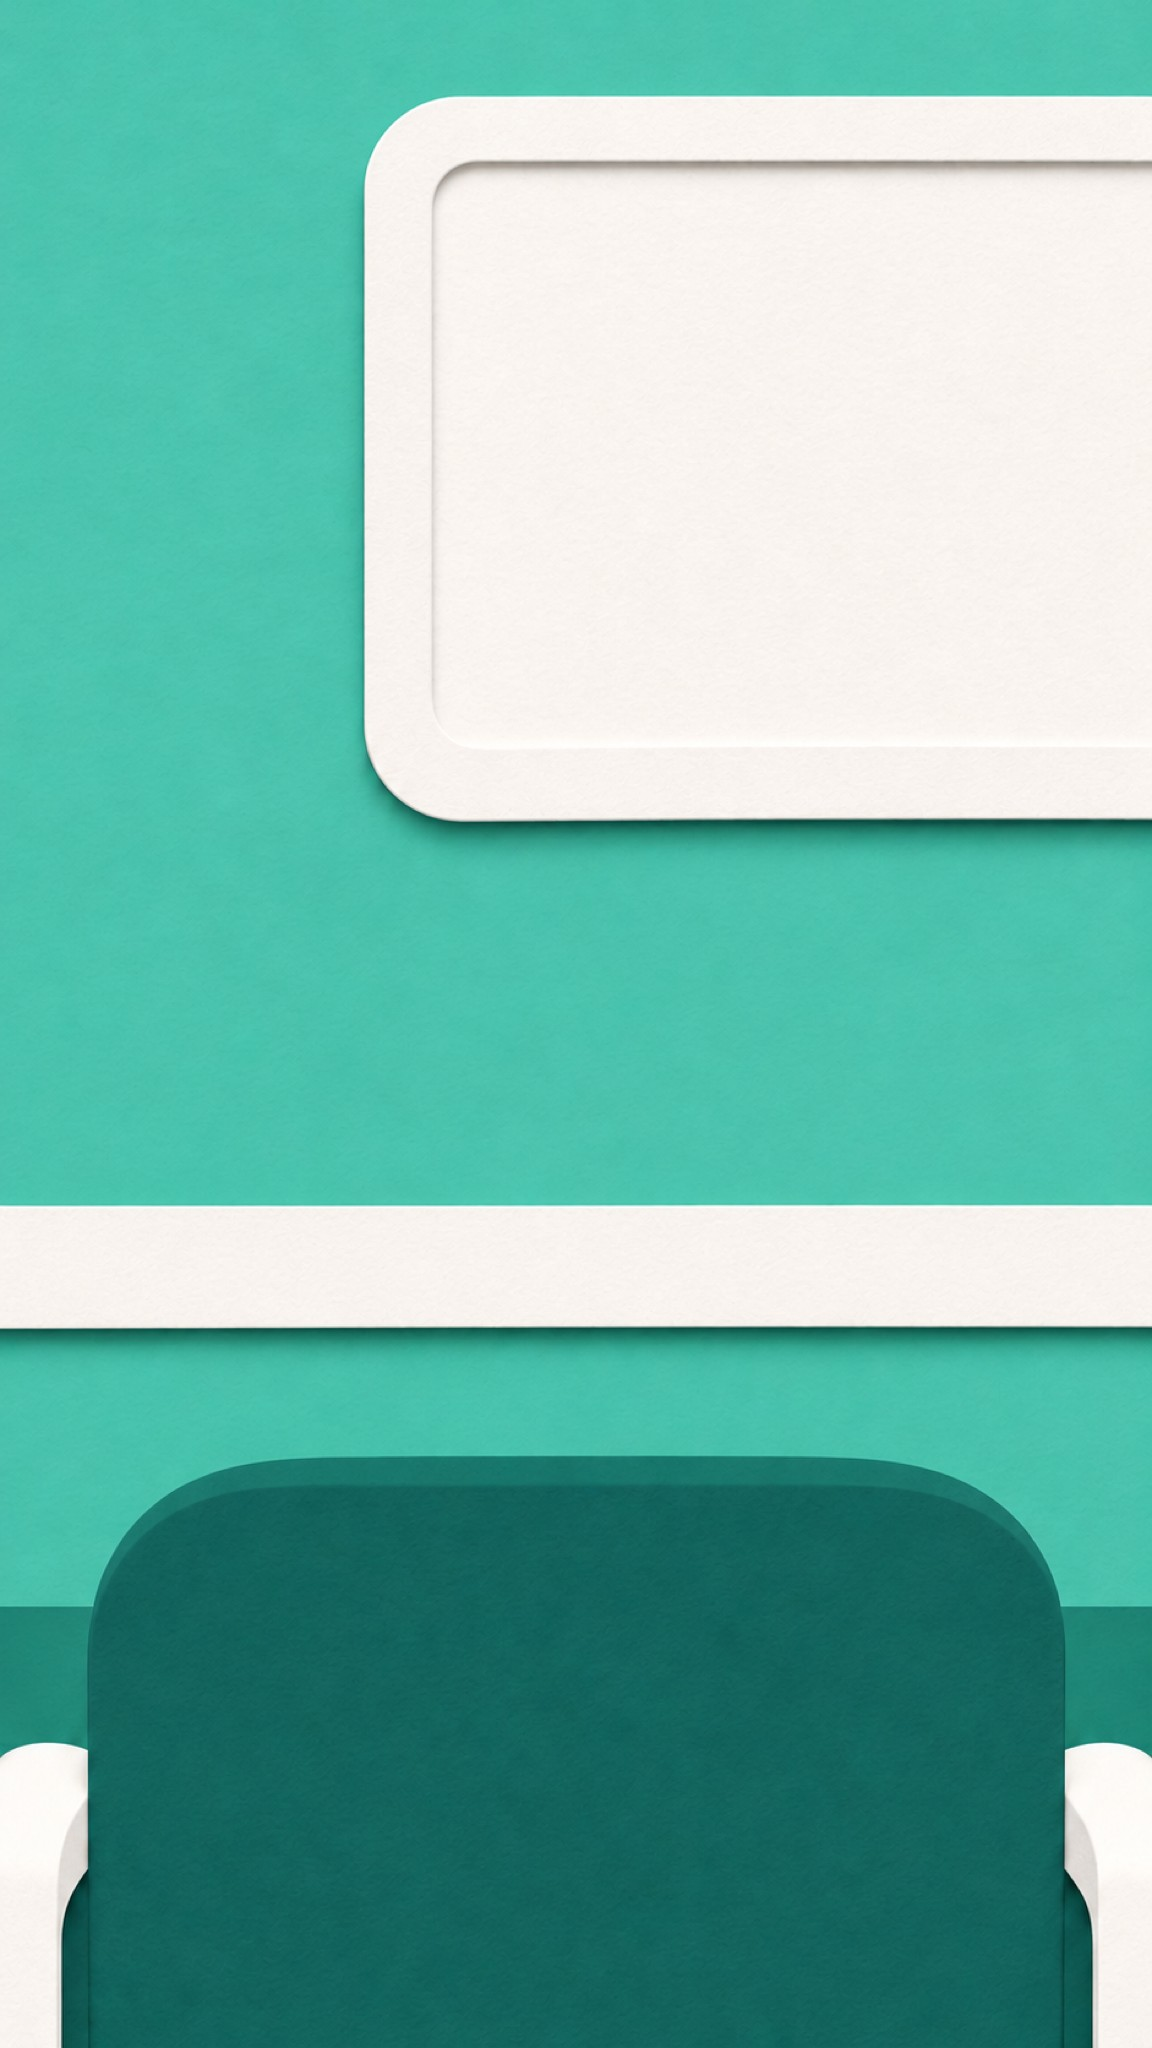
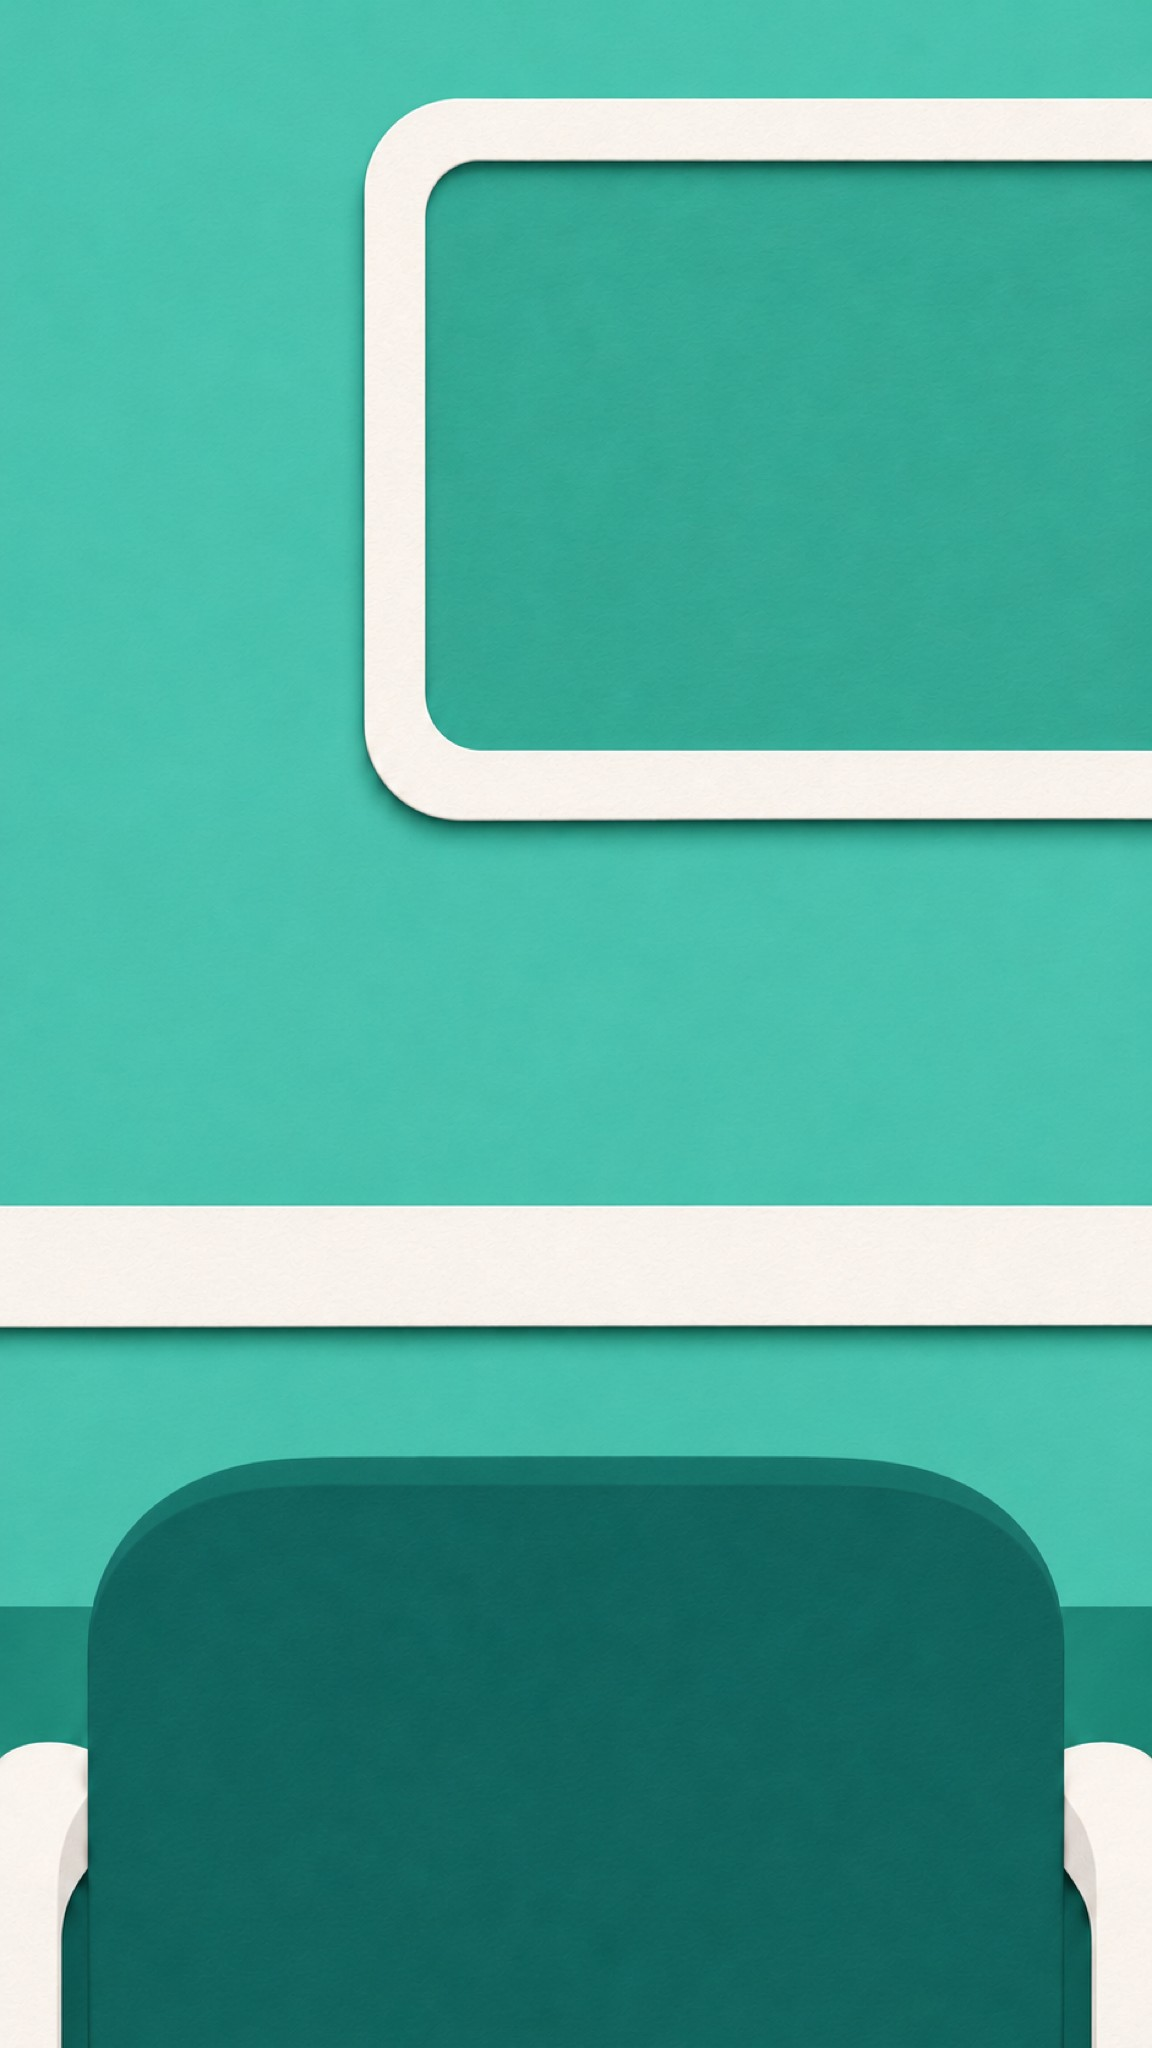
feat(M1): 「하나만요」 세트 10장·도치 기준 조각 승인(미르님, 스튜디오) — 회사 벽 한 단 낮춤·바닥 청록(테라코타 피함), 대기실 CU 흰 판 민트로

Changed region(s): [[0.3438, 0.0625, 1.0, 0.375]]

diff --git a/rules/color.md b/rules/color.md
@@ -16,7 +16,7 @@
 | 장소 | 벽(60) | 밝기 | 비고 |
 |---|---|---|---|
 | 곰네(현관·부엌) | 풀색 #5DB85C | 중 | 저녁은 한 단 어둡게, 창밖 주황 |
-| 판다 회사 | 귤주황 #F2A03D | 중 | 도치 코발트 정장과 보색 |
+| 판다 회사 | 짙은 귤주황 #D9822B, 바닥 짙은 청록 #1F5F5B | 중 | 도치 코발트 정장과 보색. 바닥을 주황 계열로 하면 테라코타가 된다 |
 | 빌라 분리수거장(밤) | 짙은 청록 담 #1F5F5B, 남색 하늘 #1E2A55 | 저 | 호박색 등불이 얼굴 뒤 후광 |
 | 병원 대기실 | 민트청록 #59BFAE | 중고 | 창빛 따뜻하게 |
 | 판(`table`) | 회차마다 짙은 깔판 | 저 | 「하나만요」는 짙은 청록, 쪽지는 진한 노랑 |
